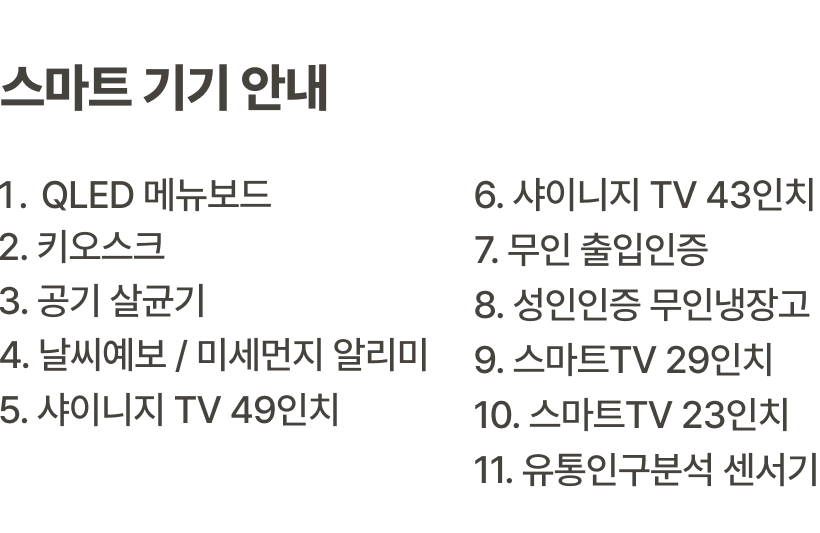
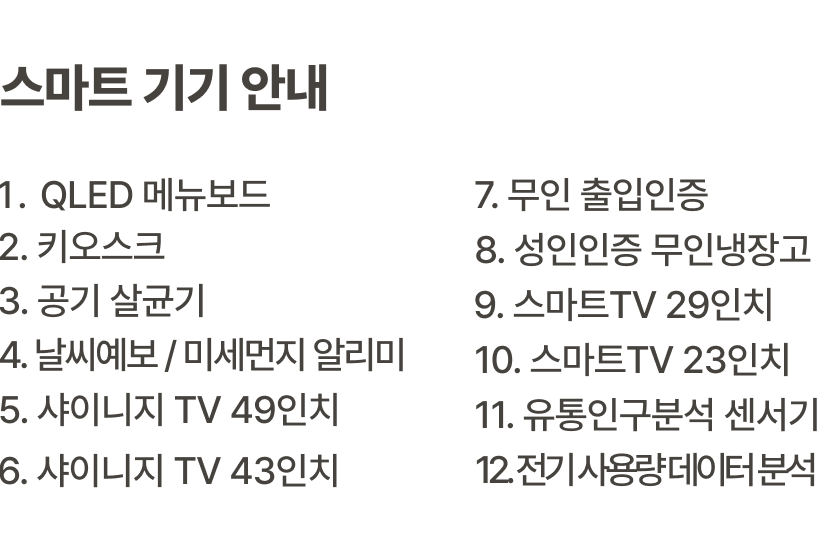
스마트기기

diff --git a/smartStor/index.html b/smartStor/index.html
@@ -314,10 +314,10 @@
                             <div class="swiper-slide item">
                                 <div class="item_view">
                                     <div class="img_wrap">
-                                        <img src="/wn-official-mobile/src/img/smartdevice/전기 사용량 데이터 분석.png" alt="전기 사용량 데티터 분석">
+                                        <img src="/wn-official-mobile/src/img/smartdevice/전기 사용량 데이터 분석.png" alt="전기 사용량 데이터 분석">
                                     </div>
                                     <div class="text_wrap">
-                                        <p class="title">전기 사용량 데티터 분석</p>
+                                        <p class="title">전기 사용량 데이터 분석</p>
                                         <p class="desc">
                                             전기요금 절감과 고장/위험 알림을<br/>
                                             실시간으로 확인하고 분석 레포트까지<br/>
